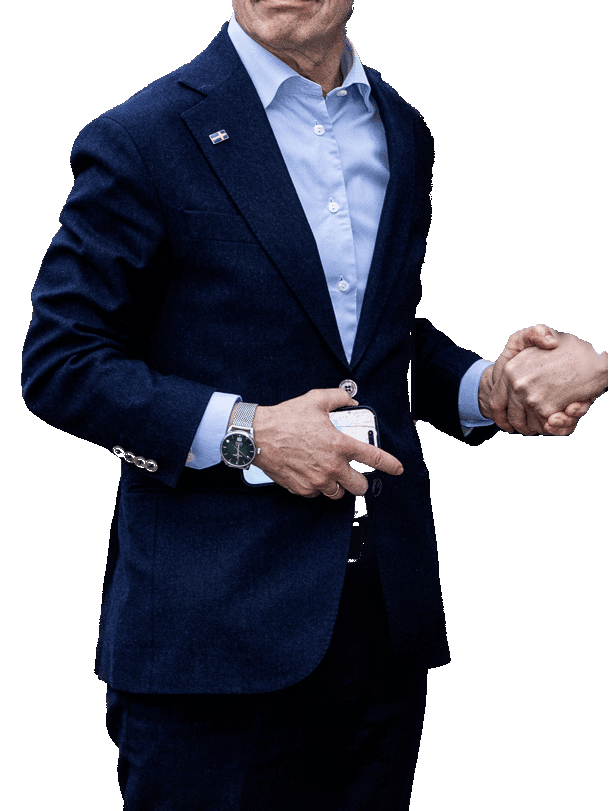
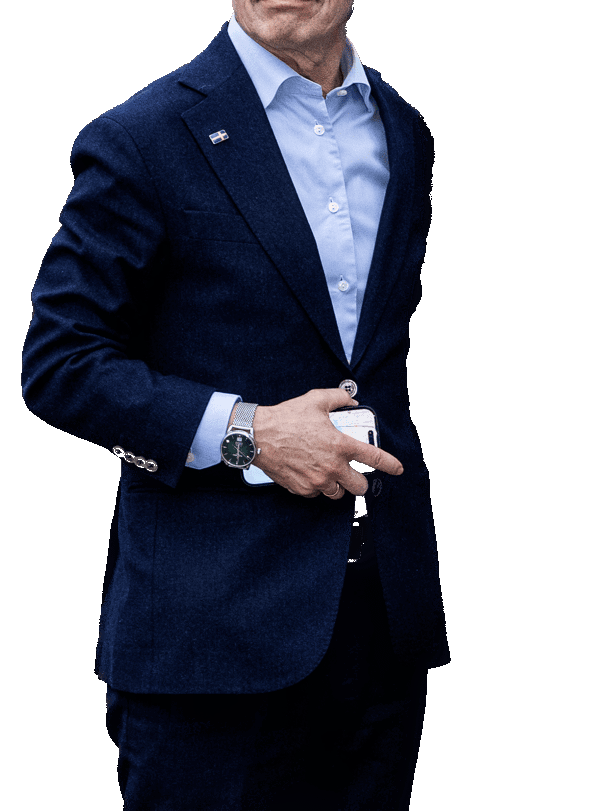
Make the tax cut a click multiplier with floating feedback
"Sänk skatten för de rika" no longer gives passive income; each
owned level adds one to the click multiplier, so coin clicks pay the
multiplied value and their floating text shows the current worth.
Buying a tax cut floats the new multiplier, like x2, over the buy
button in the shop or over the building in the world, and the shop
row shows the multiplier instead of income per second.

Changed region(s): [[0.6552, 0.3699, 0.9984, 0.5549]]

diff --git a/lib/routes/shop_route.dart b/lib/routes/shop_route.dart
@@ -1,3 +1,4 @@
+import 'package:fifflar_uffe/components/floating_text_component.dart';
 import 'package:fifflar_uffe/game/assets.dart';
 import 'package:fifflar_uffe/game/fifflar_uffe_game.dart';
 import 'package:fifflar_uffe/model/shop_catalog.dart';
@@ -69,7 +70,7 @@ class ShopItemRow extends PositionComponent
       size: Vector2(150, 66),
       position: Vector2(size.x, size.y / 2),
       anchor: Anchor.centerRight,
-      onPressed: () => game.buyItem(item),
+      onPressed: _buy,
     );
     addAll([
       SpriteComponent(
@@ -108,13 +109,27 @@ class ShopItemRow extends PositionComponent
     super.onRemove();
   }
 
+  void _buy() {
+    if (game.buyItem(item) && item.isClickMultiplier) {
+      add(
+        FloatingTextComponent(
+          text: 'x${game.economy.clickMultiplier}',
+          position: Vector2(size.x - 75, 10),
+        ),
+      );
+    }
+  }
+
   void _refresh() {
     final strings = game.i18n.strings;
     final economy = game.economy;
+    final effect = item.isClickMultiplier
+        ? 'x${economy.ownedCount(item) + 1}'
+        : '+${item.incomePerSecond} ${strings.perSecond}';
     _info.text =
         '${formatSek(economy.priceOf(item))}'
         ' | ${strings.owned}: ${economy.ownedCount(item)}'
-        ' | +${item.incomePerSecond} ${strings.perSecond}';
+        ' | $effect';
     _buyButton.isDisabled = !economy.canAfford(item);
   }
 }

diff --git a/test/economy_test.dart b/test/economy_test.dart
@@ -41,13 +41,22 @@ void main() {
     final economy = Economy(
       owned: {
         shopCatalog[0].id: 2,
-        shopCatalog[1].id: 1,
+        shopCatalog[2].id: 1,
       },
     );
     final expected =
-        2 * shopCatalog[0].incomePerSecond + shopCatalog[1].incomePerSecond;
+        2 * shopCatalog[0].incomePerSecond + shopCatalog[2].incomePerSecond;
     expect(economy.incomePerSecond, expected);
     economy.tick(2);
     expect(economy.balance, 2 * expected);
+  });
+
+  test('click multiplier scales with owned tax cuts', () {
+    final taxCut = shopCatalog.singleWhere((item) => item.isClickMultiplier);
+    final economy = Economy(owned: {taxCut.id: 1});
+    expect(economy.clickMultiplier, 2);
+    expect(economy.incomePerSecond, 0);
+    economy.earnClick();
+    expect(economy.balance, 2);
   });
 }

diff --git a/lib/components/building_component.dart b/lib/components/building_component.dart
@@ -1,3 +1,4 @@
+import 'package:fifflar_uffe/components/floating_text_component.dart';
 import 'package:fifflar_uffe/game/assets.dart';
 import 'package:fifflar_uffe/game/fifflar_uffe_game.dart';
 import 'package:fifflar_uffe/model/shop_catalog.dart';
@@ -86,6 +87,14 @@ class BuildingComponent extends PositionComponent
           EffectController(duration: 0.1, alternate: true),
         ),
       );
+      if (item.isClickMultiplier) {
+        game.world.add(
+          FloatingTextComponent(
+            text: 'x${game.economy.clickMultiplier}',
+            position: position - Vector2(0, size.y / 2 + 12),
+          ),
+        );
+      }
     }
   }
 

diff --git a/lib/model/economy.dart b/lib/model/economy.dart
@@ -10,9 +10,15 @@ class Economy extends ChangeNotifier {
 
   double _balance;
   final Map<String, int> _owned;
-  double clickValue = 1;
+  double baseClickValue = 1;
 
   double get balance => _balance;
+
+  int get clickMultiplier => shopCatalog
+      .where((item) => item.isClickMultiplier)
+      .fold(1, (multiplier, item) => multiplier + ownedCount(item));
+
+  double get clickValue => baseClickValue * clickMultiplier;
 
   Map<String, int> get owned => Map.unmodifiable(_owned);
 

diff --git a/lib/model/shop_item.dart b/lib/model/shop_item.dart
@@ -7,7 +7,8 @@ class ShopItemDef {
     required this.name,
     required this.quip,
     required this.basePrice,
-    required this.incomePerSecond,
+    this.incomePerSecond = 0,
+    this.isClickMultiplier = false,
     this.growth = 1.15,
   });
 
@@ -17,5 +18,6 @@ class ShopItemDef {
   final String Function(Strings strings) quip;
   final double basePrice;
   final double incomePerSecond;
+  final bool isClickMultiplier;
   final double growth;
 }

diff --git a/lib/model/shop_catalog.dart b/lib/model/shop_catalog.dart
@@ -16,7 +16,7 @@ final List<ShopItemDef> shopCatalog = [
     name: (strings) => strings.itemLowerTaxes,
     quip: (strings) => strings.quipLowerTaxes,
     basePrice: 150,
-    incomePerSecond: 2,
+    isClickMultiplier: true,
   ),
   ShopItemDef(
     id: 'privatize_schools',
